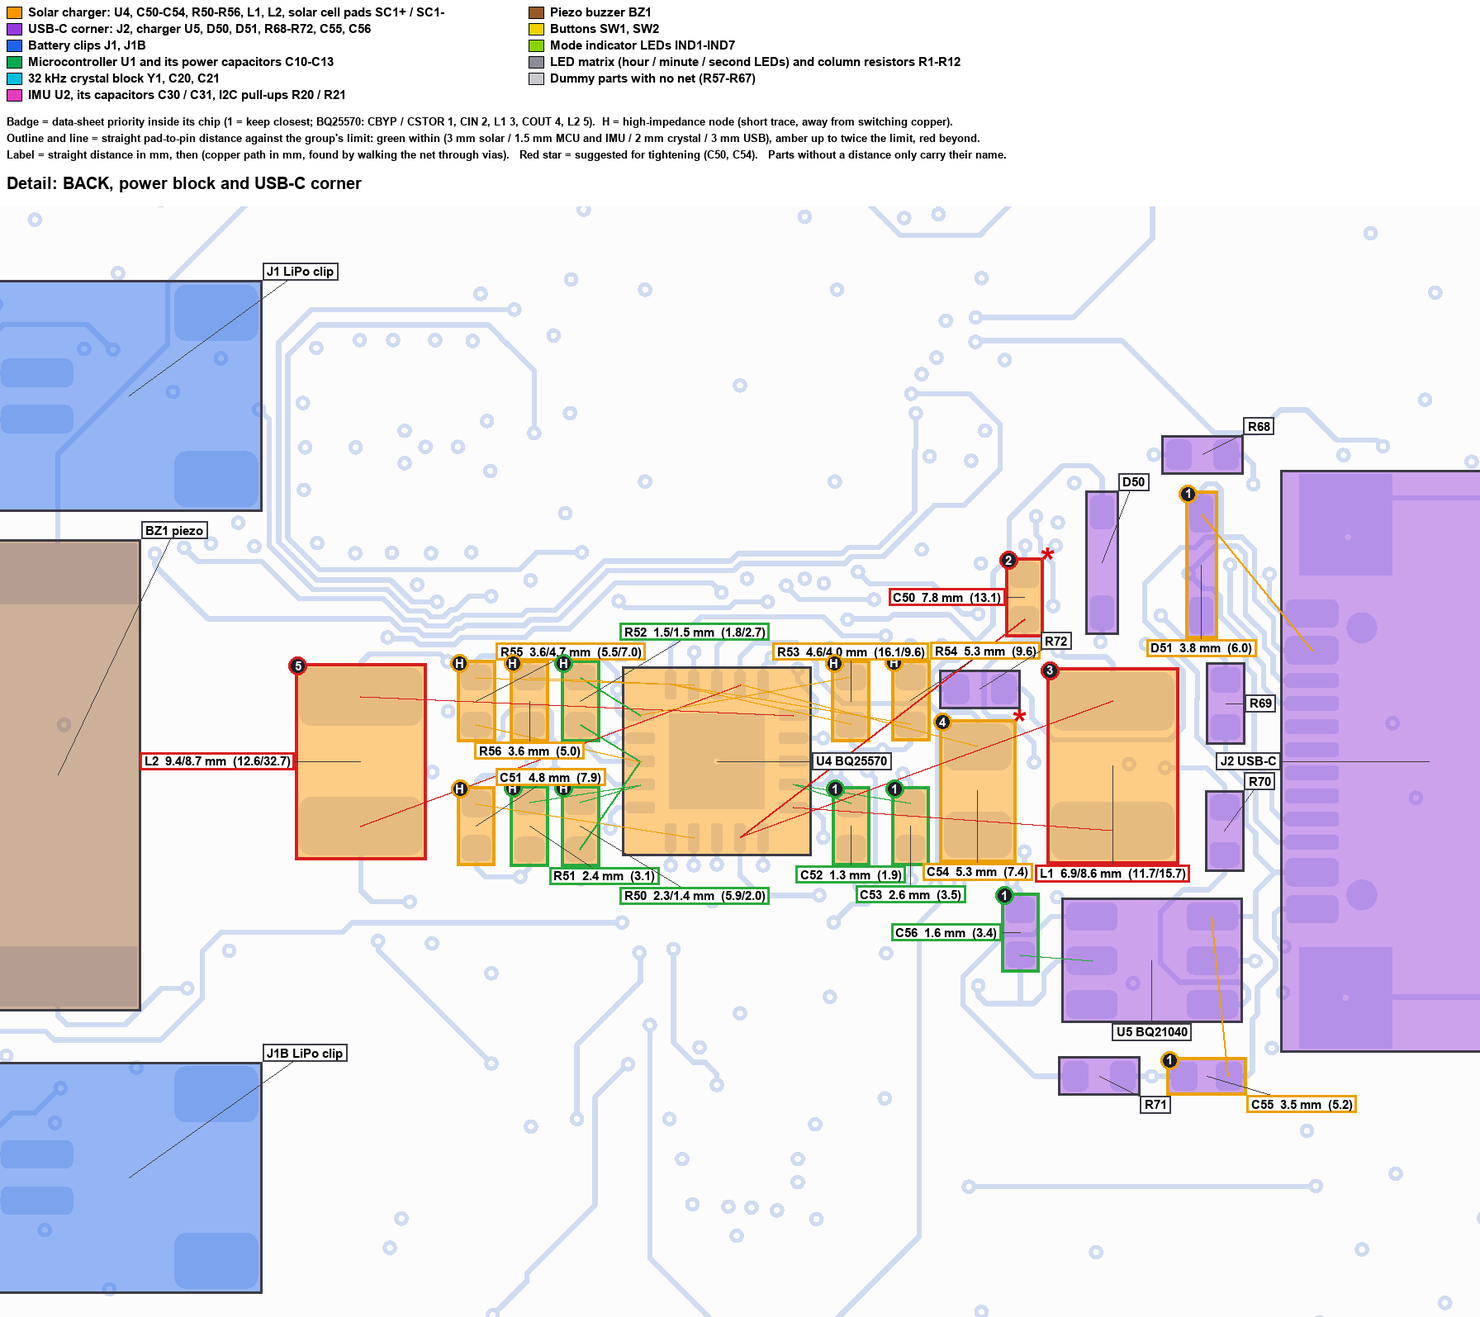
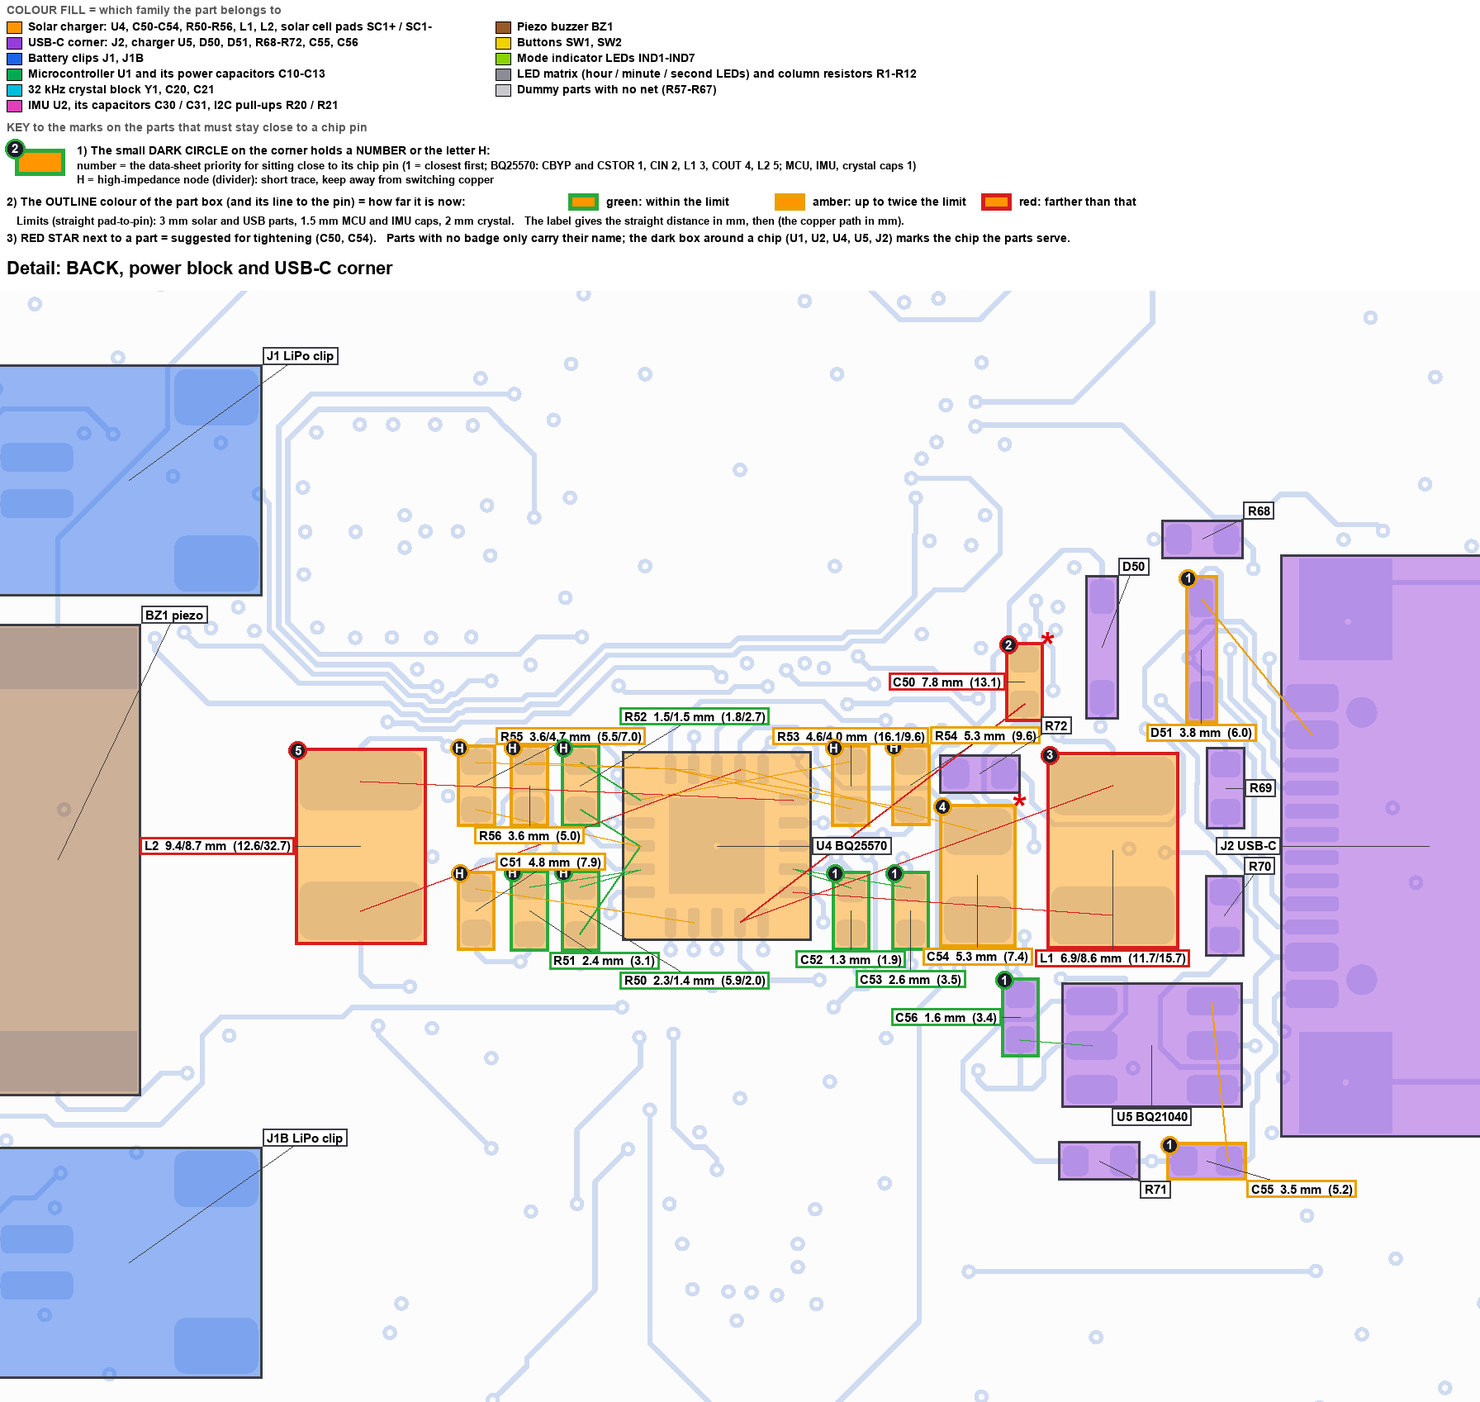
docs: back-side layout concepts A-D (parts-only study) and a clearer key on the priority pictures

diff --git a/single-color/tools/back_concepts.py b/single-color/tools/back_concepts.py
@@ -1,0 +1,173 @@
+"""back_concepts.py BACKPARTS.json OUT_PREFIX [variants.py] : concept layouts for the BACK side (parts only, no copper): picture, rule checks and distances to the U4 pins.
+BACKPARTS.json = footprint geometry of the back parts, dumped from the board (position, orientation, pad-box, pad offsets, nets).   variants.py defines VARIANTS = {name: {ref: (x, y, rot)}}.
+Checks: part boxes (pads + 0.15 mm) must not overlap each other or the fixed parts (0.1 mm gap), stay 0.5 mm inside the board circle (R 21.05 about 100, 100), and parts taller than 1.1 mm must not sit
+inside the LiPo envelopes (the batteries rest 1.1 mm above the board).   Distances: straight, part pad to the U4 pin it serves.   Picture: back view as drawn in KiCad, family colours, badge = data-sheet priority,
+outline colour = distance verdict (see the key in the picture)."""
+import sys, json, math, importlib.util
+from PIL import Image, ImageDraw, ImageFont
+P = json.load(open(sys.argv[1])); out = sys.argv[2]
+HEIGHT = {"R": 0.35, "C": 0.5, "C54": 1.25, "L": 2.5, "D": 1.11, "U5": 1.55, "U4": 0.78, "J": 2.96}
+def height(r): return HEIGHT.get(r) or HEIGHT.get(r[0], 0.5)
+FIXED = {"BZ1": (80.4, 95.5, 90.1, 105.1, "piezo 1.9 mm"), "J1": (83.5, 89.17, 90.11, 95.03, "LiPo clip 3.0 mm"), "J1B": (83.5, 106.08, 90.11, 111.92, "LiPo clip 3.0 mm"), "J2": (111.27, 93.28, 120.25, 106.72, "USB-C 3.3 mm")}
+BAT = [(90.67, 79.42, 109.33, 97.58), (90.67, 102.42, 109.33, 120.58)]
+FAM = {"solar": (255, 150, 0), "usb": (150, 60, 220)}
+SOLAR = {"U4", "L1", "L2", "C50", "C51", "C52", "C53", "C54", "R50", "R51", "R52", "R53", "R54", "R55", "R56"}
+# (priority badge, U4 pin(s) served: list of (pad number of the part, U4 pin))
+SERVE = {"C52": ("1", [("1", 19)]), "C53": ("1", [("1", 19)]), "C50": ("2", [("1", 2)]), "L1": ("3", [("1", 20), ("2", 2)]), "C54": ("4", [("1", 14)]), "L2": ("5", [("1", 16), ("2", 14)]),
+         "C51": ("H", [("1", 4)]), "R50": ("H", [("1", 7)]), "R51": ("H", [("1", 7)]), "R52": ("H", [("2", 10)]), "R53": ("H", [("1", 10)]), "R54": ("H", [("1", 11)]), "R55": ("H", [("1", 8)]), "R56": ("H", [("1", 12)])}
+LIM = 3.0
+def rotvec(dx, dy, a):
+    c, s = math.cos(math.radians(a)), math.sin(math.radians(a)); return dx * c - dy * s, dx * s + dy * c
+def geom(ref, x, y, rot):
+    d = P[ref]; a = rot - d["rot"]; x0, y0, x1, y1 = d["box"]
+    cs = [rotvec(px, py, a) for px in (x0, x1) for py in (y0, y1)]
+    box = (x + min(c[0] for c in cs), y + min(c[1] for c in cs), x + max(c[0] for c in cs), y + max(c[1] for c in cs))
+    pads = {n: (x + rotvec(px, py, a)[0], y + rotvec(px, py, a)[1], net) for n, net, px, py in d["pads"]}
+    return box, pads
+def evaluate(V):
+    G = {r: geom(r, *V[r]) for r in V}; issues = []
+    boxes = {r: (b[0] - 0.15, b[1] - 0.15, b[2] + 0.15, b[3] + 0.15) for r, (b, p) in G.items()}
+    rs = sorted(boxes)
+    for i, a in enumerate(rs):
+        for b in rs[i + 1:]:
+            A, B = boxes[a], boxes[b]
+            if A[0] < B[2] + 0.1 and B[0] < A[2] + 0.1 and A[1] < B[3] + 0.1 and B[1] < A[3] + 0.1: issues.append("overlap %s / %s" % (a, b))
+        for f, (fx0, fy0, fx1, fy1, _) in FIXED.items():
+            A = boxes[a]
+            if A[0] < fx1 + 0.1 and fx0 < A[2] + 0.1 and A[1] < fy1 + 0.1 and fy0 < A[3] + 0.1: issues.append("%s on fixed %s" % (a, f))
+        A = boxes[a]
+        if any(math.hypot(cx - 100, cy - 100) > 20.55 for cx in (A[0], A[2]) for cy in (A[1], A[3])): issues.append("%s too close to the board edge" % a)
+        if height(a) > 1.1:
+            for bt in BAT:
+                if A[0] < bt[2] and bt[0] < A[2] and A[1] < bt[3] and bt[1] < A[3]: issues.append("%s (%.2f mm) under a battery" % (a, height(a)))
+    dist = {}
+    u4 = G["U4"][1]
+    for r, (bdg, serves) in SERVE.items():
+        if r not in G: continue
+        ds = []
+        for pn, pin in serves:
+            p = G[r][1][pn]; q = u4[str(pin)]; ds.append(math.hypot(p[0] - q[0], p[1] - q[1]))
+        dist[r] = ds
+    return G, issues, dist
+def colour(r, ds):
+    w = max(ds); return (40, 170, 60) if w <= LIM else ((235, 160, 0) if w <= 2 * LIM else (215, 30, 30))
+S = 30; X0, Y0, X1, Y1 = 78.0, 77.0, 122.0, 123.0
+def draw(name, V, G, issues, dist):
+    W, H = int((X1 - X0) * S), int((Y1 - Y0) * S); im = Image.new("RGB", (W, H), (250, 250, 250)); d = ImageDraw.Draw(im, "RGBA"); F = lambda s: ImageFont.truetype("C:/Windows/Fonts/arialbd.ttf", s)
+    p = lambda x, y: ((x - X0) * S, (y - Y0) * S)
+    d.ellipse([p(100 - 21.05, 100 - 21.05), p(100 + 21.05, 100 + 21.05)], outline=(120, 120, 120), width=3, fill=(236, 240, 236))
+    d.ellipse([p(100 - 20.55, 100 - 20.55), p(100 + 20.55, 100 + 20.55)], outline=(190, 190, 190), width=1)
+    for bt in BAT:
+        d.rectangle([p(bt[0], bt[1]), p(bt[2], bt[3])], fill=(180, 200, 235, 90), outline=(60, 90, 170), width=3)
+        d.rectangle([p(bt[0] + 1, bt[1] + 1), p(bt[2] - 1, bt[3] - 1)], outline=(60, 90, 170, 120), width=1)
+    d.text(p(95, 84), "LiPo 15 x 15 x 5 mm: only parts up to 1.1 mm under it", font=F(15), fill=(40, 70, 150))
+    d.text(p(95, 115), "LiPo 15 x 15 x 5 mm", font=F(15), fill=(40, 70, 150))
+    for f, (x0, y0, x1, y1, t) in FIXED.items():
+        d.rectangle([p(x0, y0), p(x1, y1)], fill=(150, 150, 160, 160), outline=(70, 70, 80), width=3); d.text(p(x0 + 0.3, y0 + 0.2), "%s %s" % (f, t), font=F(13), fill=(0, 0, 0))
+    for r, (b, pads) in G.items():
+        fam = (255, 150, 0) if r in SOLAR else (150, 60, 220)
+        if r in dist: oc = colour(r, dist[r])
+        else: oc = (60, 60, 70)
+        d.rectangle([p(b[0], b[1]), p(b[2], b[3])], fill=fam + (140,), outline=oc + (255,), width=4 if r in dist else 2)
+        cx, cy = p((b[0] + b[2]) / 2, (b[1] + b[3]) / 2); d.text((cx, cy), r, font=F(12), fill=(0, 0, 0), anchor="mm")
+        if r in SERVE:
+            bx, by = p(b[0], b[1]); d.ellipse([bx - 11, by - 11, bx + 11, by + 11], fill=(30, 30, 40, 255), outline=oc + (255,), width=3); d.text((bx, by), SERVE[r][0], font=F(13), fill=(255, 255, 255), anchor="mm")
+            for pn, pin in SERVE[r][1]:
+                a = G[r][1][pn]; q = G["U4"][1][str(pin)]; d.line([p(a[0], a[1]), p(q[0], q[1])], fill=oc + (255,), width=2)
+    kx, ky = 10, H - 150
+    d.rectangle([kx - 4, ky - 6, kx + 560, ky + 112], fill=(255, 255, 255, 235), outline=(120, 120, 120))
+    d.text((kx, ky), "KEY", font=F(14), fill=(0, 0, 0))
+    d.rectangle([kx, ky + 22, kx + 16, ky + 36], fill=(255, 150, 0), outline=(0, 0, 0)); d.text((kx + 22, ky + 21), "solar charger parts", font=F(13), fill=(0, 0, 0))
+    d.rectangle([kx + 180, ky + 22, kx + 196, ky + 36], fill=(150, 60, 220), outline=(0, 0, 0)); d.text((kx + 202, ky + 21), "USB-C corner parts", font=F(13), fill=(0, 0, 0))
+    d.rectangle([kx + 360, ky + 22, kx + 376, ky + 36], fill=(150, 150, 160), outline=(70, 70, 80)); d.text((kx + 382, ky + 21), "fixed: clips, buzzer, USB-C", font=F(13), fill=(0, 0, 0))
+    d.ellipse([kx, ky + 44, kx + 18, ky + 62], fill=(30, 30, 40), outline=(40, 170, 60), width=3); d.text((kx + 9, ky + 53), "1", font=F(12), fill=(255, 255, 255), anchor="mm")
+    d.text((kx + 26, ky + 46), "dark circle = number (data-sheet priority, 1 = closest) or H (high-impedance divider)", font=F(13), fill=(0, 0, 0))
+    for j, (col, t) in enumerate((((40, 170, 60), "within 3 mm"), ((235, 160, 0), "3-6 mm"), ((215, 30, 30), "over 6 mm"))):
+        x = kx + j * 150; d.rectangle([x, ky + 70, x + 24, ky + 84], fill=(255, 150, 0, 140), outline=col, width=4); d.text((x + 30, ky + 69), t, font=F(13), fill=(0, 0, 0))
+    d.text((kx + 450, ky + 69), "outline = distance to the U4 pin", font=F(11), fill=(0, 0, 0))
+    d.text((kx, ky + 90), "tall parts (L1, L2 2.5 mm; U5 1.55; C54 1.25) must stay out of the batteries' footprint; thin lines run from each part to the U4 pin it serves", font=F(11), fill=(0, 0, 0))
+    d.text((10, 6), name, font=F(24), fill=(0, 0, 0))
+    bad = [i for i in issues]
+    d.text((10, H - 24 - 18 * min(len(bad), 6)), "rule issues: %s" % (", ".join(bad[:5]) if bad else "none"), font=F(14), fill=(215, 30, 30) if bad else (40, 130, 40))
+    return im
+
+import random
+USB = {"R68": [("1", "J2:A5")], "R69": [("1", "J2:B5")], "D51": [("1", "J2:A4")], "R72": [("1", "J2:A8")], "D50": [("2", "J2:A8")]}
+def pull_cost(G):
+    c = 0.0; j2 = G_FIXED["J2"]
+    for r, lst in USB.items():
+        if r not in G: continue
+        for pn, tgt in lst:
+            q = j2[tgt.split(":")[1]]; p = G[r][1][pn]; c += math.hypot(p[0] - q[0], p[1] - q[1])
+    u5 = G["U5"][1]
+    for r, pn, pin in (("C55", "1", "6"), ("C56", "1", "2"), ("R70", "1", "4"), ("R71", "1", "1")):
+        if r in G and str(pin) in u5:
+            p = G[r][1][pn]; q = u5[str(pin)]; c += 0.6 * math.hypot(p[0] - q[0], p[1] - q[1])
+    return c
+J2 = P["J2"]; G_FIXED = {"J2": {n: (J2["x"] + dx, J2["y"] + dy) for n, net, dx, dy in J2["pads"] if n}}
+WEIGHT = {"C52": 10, "C53": 10, "C50": 6, "L1": 2.5, "C54": 4, "L2": 2, "C51": 2, "R50": 1.5, "R51": 1.5, "R52": 1.5, "R53": 1.5, "R54": 1.5, "R55": 1.5, "R56": 2}
+def cost(V, rules):
+    G = {r: geom(r, *V[r]) for r in V}; c = 0.0
+    boxes = {r: (b[0] - 0.15, b[1] - 0.15, b[2] + 0.15, b[3] + 0.15) for r, (b, p) in G.items()}; rs = sorted(boxes)
+    for i, a in enumerate(rs):
+        A = boxes[a]
+        for b in rs[i + 1:]:
+            B = boxes[b]
+            if A[0] < B[2] + 0.1 and B[0] < A[2] + 0.1 and A[1] < B[3] + 0.1 and B[1] < A[3] + 0.1: c += 50
+        for f, (fx0, fy0, fx1, fy1, _) in FIXED.items():
+            if A[0] < fx1 + 0.1 and fx0 < A[2] + 0.1 and A[1] < fy1 + 0.1 and fy0 < A[3] + 0.1: c += 50
+        if any(math.hypot(cx - 100, cy - 100) > 20.55 for cx in (A[0], A[2]) for cy in (A[1], A[3])): c += 50
+        if height(a) > 1.1:
+            for bt in BAT:
+                if A[0] < bt[2] and bt[0] < A[2] and A[1] < bt[3] and bt[1] < A[3]: c += 50
+        reg = rules.get("region", {}).get(a)
+        if reg and not any(A[0] >= q[0] and A[2] <= q[2] and A[1] >= q[1] and A[3] <= q[3] for q in reg): c += 50
+    u4 = G["U4"][1]
+    for r, (bdg, serves) in SERVE.items():
+        if r in G:
+            for pn, pin in serves:
+                p = G[r][1][pn]; q = u4[str(pin)]; c += WEIGHT[r] * math.hypot(p[0] - q[0], p[1] - q[1])
+    c += pull_cost(G)
+    for a, b in rules.get("mirror", []):
+        c += 1.2 * (abs(G[a][0][0] - G[b][0][0]) + abs((G[a][0][1] + G[b][0][3]) - 200) * 0.5 + abs(V[a][2] - V[b][2]) % 180 * 0.02)
+    return c
+def optimise(V0, rules, seed=1, iters=60000):
+    rnd = random.Random(seed); V = dict(V0); best = cost(V, rules); free = [r for r in V if r not in rules.get("pinned", [])]; T = 4.0
+    for it in range(iters):
+        r = rnd.choice(free); x, y, rot = V[r]; sig = 0.15 + 2.5 * (1 - it / iters) ** 2
+        nx, ny, nr = x + rnd.gauss(0, sig), y + rnd.gauss(0, sig), rot
+        if rnd.random() < 0.04: nr = rnd.choice([0, 90, 180, 270]) if r != "U4" or rules.get("u4rot") else rot
+        if r == "U4": ny = 100.0
+        reg = rules.get('region', {}).get(r)
+        if reg and rnd.random() < 0.05:
+            q = rnd.choice(reg); nx, ny = rnd.uniform(q[0] + 1.5, q[2] - 1.5), rnd.uniform(q[1] + 1.5, q[3] - 1.5)
+        nx, ny = round(nx * 20) / 20, round(ny * 20) / 20
+        W = dict(V); W[r] = (nx, ny, nr); c = cost(W, rules)
+        if c < best or rnd.random() < math.exp((best - c) / max(T * (1 - it / iters), 1e-3)): V, best = W, c
+    return V, best
+mod = importlib.import_module("concept_rules") if False else None
+V0 = {r: (P[r]["x"], P[r]["y"], P[r]["rot"] % 360) for r in P if r not in FIXED}
+for r in V0: V0[r] = (V0[r][0], V0[r][1], {0: 0, 90: 90, 180: 180, 270: 270}.get(round(V0[r][2]) % 360, round(V0[r][2]) % 360))
+BAND = [(91.0, 97.58, 111.0, 102.42)]
+NE = [(109.5, 80.5, 119.5, 92.9)]; SE = [(109.5, 107.1, 119.5, 119.5)]
+CONCEPTS = {
+    "A now": (None, None),
+    "B tidy": ({"region": {"L1": BAND, "L2": BAND}, "u4rot": True}, 1),
+    "C corner inductors": ({"region": {"L2": NE, "L1": SE}, "mirror": [("L1", "L2")], "u4rot": True}, 2),
+    "D L2 in the corner": ({"region": {"L1": BAND, "L2": NE}, "u4rot": True}, 3),
+}
+only = sys.argv[3].split(",") if len(sys.argv) > 3 else list(CONCEPTS)
+iters = int(sys.argv[4]) if len(sys.argv) > 4 else 40000
+summary = {}
+for name in only:
+    rules, seed = CONCEPTS[name]
+    if rules is None: V = V0; c = cost(V0, {})
+    else:
+        V, c = None, 1e18
+        for sd in range(seed * 10, seed * 10 + 4):
+            W, cw = optimise(V0, rules, sd, iters)
+            if cw < c: V, c = W, cw
+    G, issues, dist = evaluate(V); im = draw(name, V, G, issues, dist); fn = "%s-%s.png" % (out, name.split()[0]); im.save(fn)
+    json.dump({r: V[r] for r in V}, open("%s-%s.json" % (out, name.split()[0]), "w"))
+    print("== %s cost %.1f -> %s" % (name, c, fn)); print("   issues:", issues if issues else "none")
+    print("   straight mm:", {r: [round(v, 1) for v in ds] for r, ds in sorted(dist.items())})

diff --git a/single-color/tools/priority_map.py b/single-color/tools/priority_map.py
@@ -147,14 +147,25 @@ def panel(side, box, ppm, fs):
             if r in STAR: d.text((bx + 2, ay - 2), "*", fill=(220, 0, 0, 255), font=FB(fs * 3), anchor="lm")
     return img.convert("RGB")
 def legend(w, title):
-    f = FB(15); h = 250; im = Image.new("RGB", (w, h), (255, 255, 255)); d = ImageDraw.Draw(im)
+    f = FB(15); h = 352; im = Image.new("RGB", (w, h), (255, 255, 255)); d = ImageDraw.Draw(im)
+    d.text((8, 4), "COLOUR FILL = which family the part belongs to", font=FB(14), fill=(90, 90, 90))
     for i, (fam, (col, txt)) in enumerate(FAM.items()):
-        cx, cy = (8, 6 + 20 * i) if i < 6 else (640, 6 + 20 * (i - 6)); d.rectangle([cx, cy + 2, cx + 18, cy + 16], fill=col, outline=(0, 0, 0)); d.text((cx + 26, cy), txt, fill=(0, 0, 0), font=f)
-    for i, ln in enumerate(("Badge = data-sheet priority inside its chip (1 = keep closest; BQ25570: CBYP / CSTOR 1, CIN 2, L1 3, COUT 4, L2 5).  H = high-impedance node (short trace, away from switching copper).",
-                            "Outline and line = straight pad-to-pin distance against the group's limit: green within (3 mm solar / 1.5 mm MCU and IMU / 2 mm crystal / 3 mm USB), amber up to twice the limit, red beyond.",
-                            "Label = straight distance in mm, then (copper path in mm, found by walking the net through vias).   Red star = suggested for tightening (C50, C54).   Parts without a distance only carry their name.")):
-        d.text((8, 140 + 20 * i), ln, fill=(0, 0, 0), font=FB(13))
-    d.text((8, 210), title, fill=(0, 0, 0), font=FB(20)); return im
+        cx, cy = (8, 24 + 19 * i) if i < 6 else (600, 24 + 19 * (i - 6)); d.rectangle([cx, cy + 2, cx + 18, cy + 16], fill=col, outline=(0, 0, 0)); d.text((cx + 26, cy), txt, font=FB(14), fill=(0, 0, 0))
+    # key panel: three things drawn on every part that serves a chip pin
+    kx, ky = 8, 150
+    d.text((kx, ky - 4), "KEY to the marks on the parts that must stay close to a chip pin", font=FB(14), fill=(90, 90, 90))
+    # example: badge
+    d.rectangle([kx + 10, ky + 30, kx + 70, ky + 62], fill=(255, 150, 0), outline=(40, 170, 60), width=5); d.ellipse([kx - 2, ky + 18, kx + 22, ky + 42], fill=(30, 30, 40), outline=(40, 170, 60), width=3); d.text((kx + 10, ky + 30), "2", font=FB(15), fill=(255, 255, 255), anchor="mm")
+    d.text((kx + 85, ky + 24), "1) The small DARK CIRCLE on the corner holds a NUMBER or the letter H:", font=FB(14), fill=(0, 0, 0))
+    d.text((kx + 85, ky + 43), "number = the data-sheet priority for sitting close to its chip pin (1 = closest first; BQ25570: CBYP and CSTOR 1, CIN 2, L1 3, COUT 4, L2 5; MCU, IMU, crystal caps 1)", font=FB(13), fill=(0, 0, 0))
+    d.text((kx + 85, ky + 60), "H = high-impedance node (divider): short trace, keep away from switching copper", font=FB(13), fill=(0, 0, 0))
+    ox = kx + 10
+    d.text((kx, ky + 86), "2) The OUTLINE colour of the part box (and its line to the pin) = how far it is now:", font=FB(14), fill=(0, 0, 0))
+    for j, (col, t) in enumerate((((40, 170, 60), "green: within the limit"), ((235, 160, 0), "amber: up to twice the limit"), ((215, 30, 30), "red: farther than that"))):
+        x = kx + 680 + j * 250; d.rectangle([x, ky + 84, x + 36, ky + 104], fill=(255, 150, 0), outline=col, width=5); d.text((x + 46, ky + 86), t, font=FB(14), fill=(0, 0, 0))
+    d.text((kx, ky + 110), "   Limits (straight pad-to-pin): 3 mm solar and USB parts, 1.5 mm MCU and IMU caps, 2 mm crystal.   The label gives the straight distance in mm, then (the copper path in mm).", font=FB(13), fill=(0, 0, 0))
+    d.text((kx, ky + 130), "3) RED STAR next to a part = suggested for tightening (C50, C54).   Parts with no badge only carry their name; the dark box around a chip (U1, U2, U4, U5, J2) marks the chip the parts serve.", font=FB(14), fill=(0, 0, 0))
+    d.text((8, h - 40), title, font=FB(22), fill=(0, 0, 0)); return im
 def sheet(panels, title):
     w = max(1260, sum(p.width for p in panels) + 10 * (len(panels) - 1)); hh = max(p.height for p in panels); L = legend(w, title)
     out = Image.new("RGB", (w, L.height + hh), (255, 255, 255)); out.paste(L, (0, 0)); x = 0

diff --git a/single-color/docs/BACK-LAYOUT-CONCEPTS.md b/single-color/docs/BACK-LAYOUT-CONCEPTS.md
@@ -1,0 +1,46 @@
+# Back-side layout concepts (2026-11-05) - parts only, no copper
+
+Question: if the back were placed from scratch, what arrangement keeps the look symmetric, keeps the power parts close to their chip pins, and keeps tall parts out from under the batteries?
+This is a placement study, nothing in KiCad was moved. Pictures: `back-concept-A.png` (as it is now), `-B`, `-C`, `-D`. Tool: `tools/back_concepts.py` (rectangles for the parts, simulated annealing, rule checks); geometry in `tools/back_parts_2026-11-05.json`.
+
+## What is fixed, and the heights
+| Item | Where | Height |
+|---|---|---|
+| Two LiPo pouches 15 x 15 x 5 mm | centres (100, 88.5) and (100, 111.5); the band between their tolerance outlines is **4.84 mm** (7.0 mm between the nominal bodies) | rest 1.1 mm above the board |
+| Battery clips J1 / J1B | west, above and below the buzzer | 3.0 mm |
+| Piezo BZ1 (9 x 9 mm) | west, centre | 1.9 mm |
+| USB-C J2 | east, centre, mouth 1.3 mm from the rim | 3.3 mm |
+| L1, L2 (1210 inductors) | | **2.5 mm** (too tall to sit under a battery) |
+| U5 1.55, C54 1.25, D50 / D51 1.11 | | marginal / over 1.1 mm |
+| 0402 caps 0.5, 0402 resistors 0.35, U4 0.78 | | fine under a battery |
+
+Zones: the **band** between the batteries (4.84 mm tall, about 19 mm wide between the buzzer and the USB-C) takes anything; **under a battery** only parts up to 1.1 mm; the **east corners** (x > 109.5, above y 93 and below y 107, the "1-2 o'clock and 4-5 o'clock" areas) take anything because no battery is above them; the west is the buzzer and the clips.
+
+## BQ25570 pin geometry (why the inductors are awkward)
+Both inductor pins (16 LBUCK, 20 LBOOST) sit on the same side of the chip, and the two inductor "corners" (pins 16 / 14 and pins 20 / 2) are mirror images top and bottom. Two 2.65 mm inductors cannot be stacked inside a 4.84 mm band, so a perfectly mirrored pair needs the east corners.
+
+## The four concepts (straight pad-to-pin distances, mm)
+| | A: now | B: tidy cluster | C: corner inductors | D: only L2 in a corner |
+|---|---|---|---|---|
+| C52 CSTOR / C53 CBYP (priority 1) | 1.3 / 2.6 | 1.2 / 1.1 | 1.1 / 1.2 | 1.1 / 1.2 |
+| C50 CIN (2) | 7.8 | 1.0 | 1.1 | 1.0 |
+| L1 (3) | 6.9 / 8.6 | 5.4 / 6.1 | 8.3 / 10.7 | 5.5 / 6.2 |
+| C54 COUT (4) | 5.3 | 3.7 | 3.7 | 3.7 |
+| L2 (5) | 9.4 / 8.7 | 4.8 / 6.5 | 10.7 / 8.5 | 12.6 / 11.2 |
+| dividers R50-R56, C51 | 1.5-4.8 | 1.1-2.7 | 1.1-2.6 | 1.1-2.2 |
+| rule issues | D50, U5 under a battery | none | none | none |
+
+* **A (now)** is the T shape of the band plus the USB corner. U5 (1.55 mm) and D50 (1.11 mm) are partly under the batteries.
+* **B (tidy cluster)**: U4 in the band, dividers on its west, small caps tight around it, L2 west and L1 east in the band, everything that serves a pin within about 3 mm (inductors 5-6). The USB-charger parts (U5, C55, C56, R70, R71) move out from under the battery into the free corner south-east. Best distances, but it is the densest: routing room is the open question. Symmetry: left-right (L2 / L1), not up-down.
+* **C (corner inductors)**: L2 north-east and L1 south-east, exactly mirrored about the horizontal axis through the USB-C; U4 shifted east to about x 104 (nearer the solar pad SC1+ and the USB corner, so SOLAR_IN and BATT get shorter); the dividers sit west of U4 in the quiet part of the band. Most elegant, and the band stays almost empty (room for routing), but the inductors are 8-11 mm from U4. The data sheet's priority order puts L1 and L2 last, and its layout advice is to use vias and bottom-layer traces for the inductors, so this may be acceptable; it needs a bench check of the converter efficiency.
+* **D (L2 in the corner, L1 in the band)**: the middle road; L2 12 mm away is the price.
+
+## What I would do
+Start from **B** (functional first) and hand-tune it towards **C's** look: keep L1 / L2 in the band if the routing is comfortable, otherwise move only the farthest one to a corner; shift U4 east by 2-4 mm; keep the clips and the buzzer in the west (the clips are 3 mm tall and their wires run from the battery edge, the east strip is the USB corner); put U5 and its caps in the south-east free corner next to the USB-C instead of under the battery.
+These distances are straight lines between pad centres with the parts as boxes: they ignore vias, keep-outs, the front side and routing; the packing is deliberately tight, so a layout that is denser than today is not necessarily routable.
+
+## Open decisions
+1. B-like (shortest loops) or C-like (mirrored, longer inductor loops)?
+2. U4 shift east, yes or no?
+3. Accept batteries resting on 0402 parts and D50 / D51 (1.1 mm), keep L1 / L2 / U5 / C54 out?
+4. Battery clips stay west?
